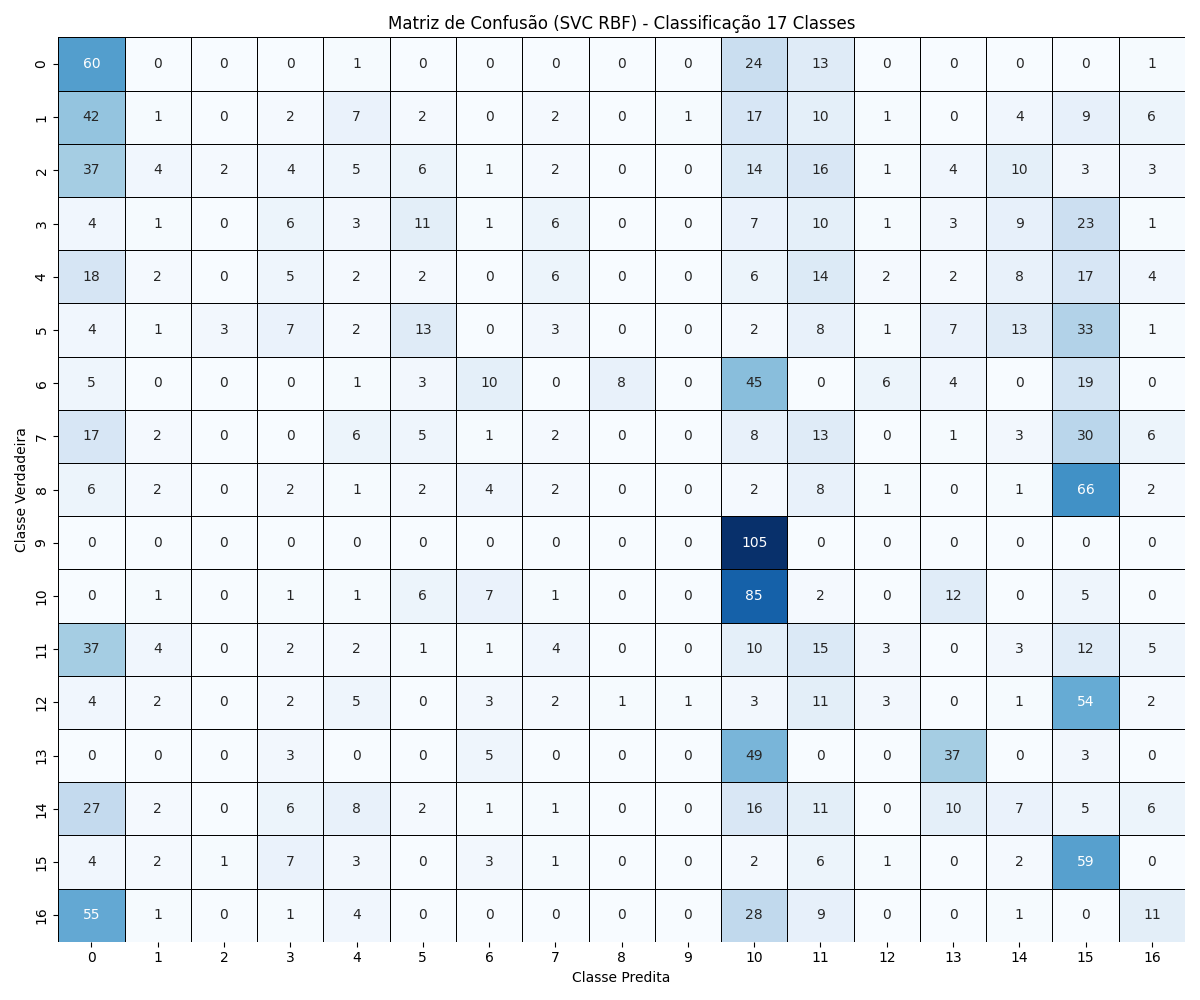
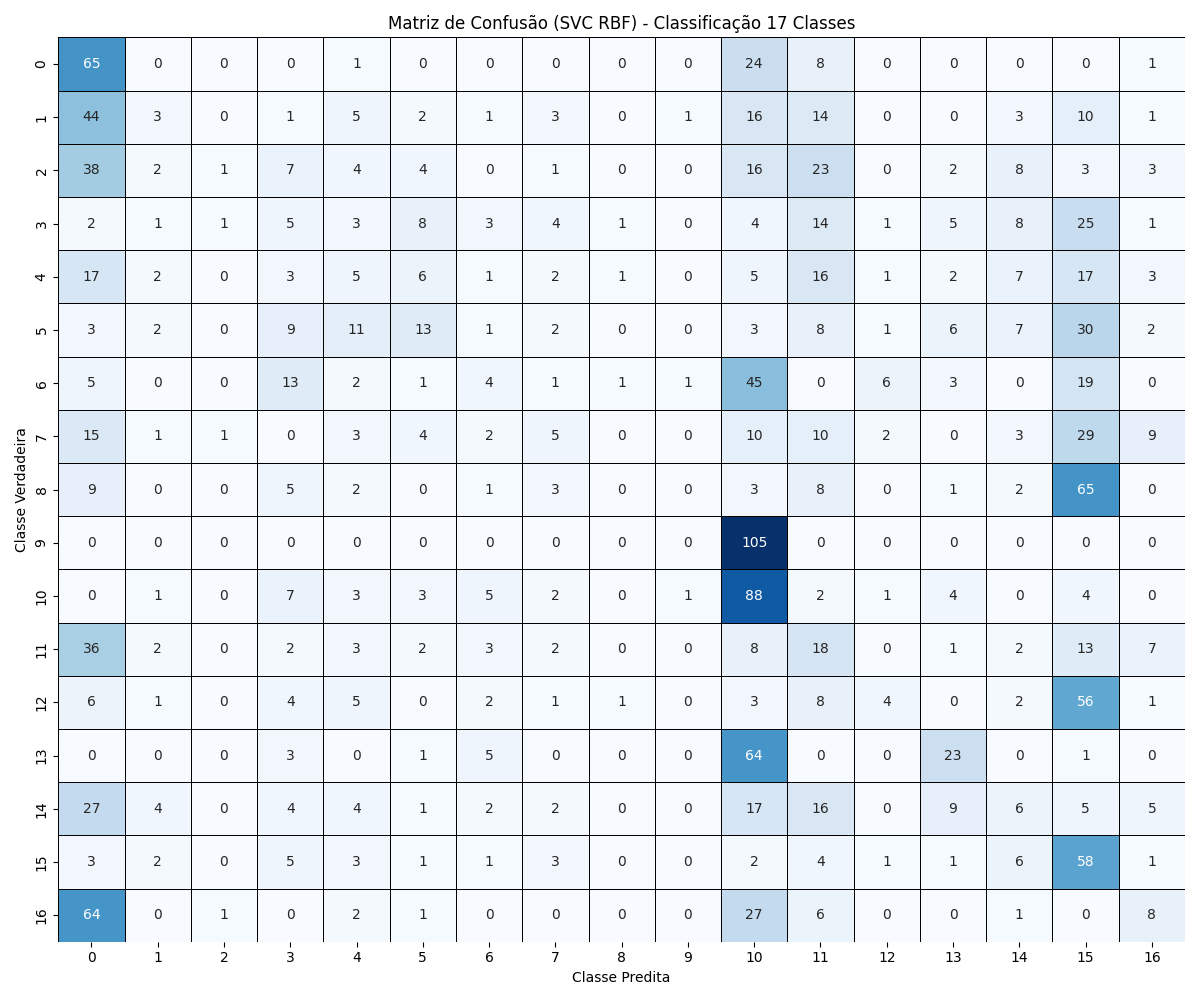
last results svm is better

Changed region(s): [[0.0308, 0.868, 0.1233, 0.961], [0.5858, 0.713, 0.6783, 0.806], [0.74, 0.713, 0.8325, 0.806]]

diff --git a/compressed_data_classification/models/svm_with_rbf_training.py b/compressed_data_classification/models/svm_with_rbf_training.py
@@ -40,7 +40,7 @@ def svc_rbf_training(X_train, y_train, X_test, y_test, X, technique):
     # Iniciando o tracker de emissões <- CODECARBON
     tracker = OfflineEmissionsTracker(
         country_iso_code="BRA",
-        output_file=Path(base_path, "emissions/emissions_SVC_RBF_{technique}.csv").as_posix(),
+        output_file=f"compressed_data_classification/models/emissions/emissions_SVC_RBF_{technique}.csv",
         log_level='critical'
     )
     
